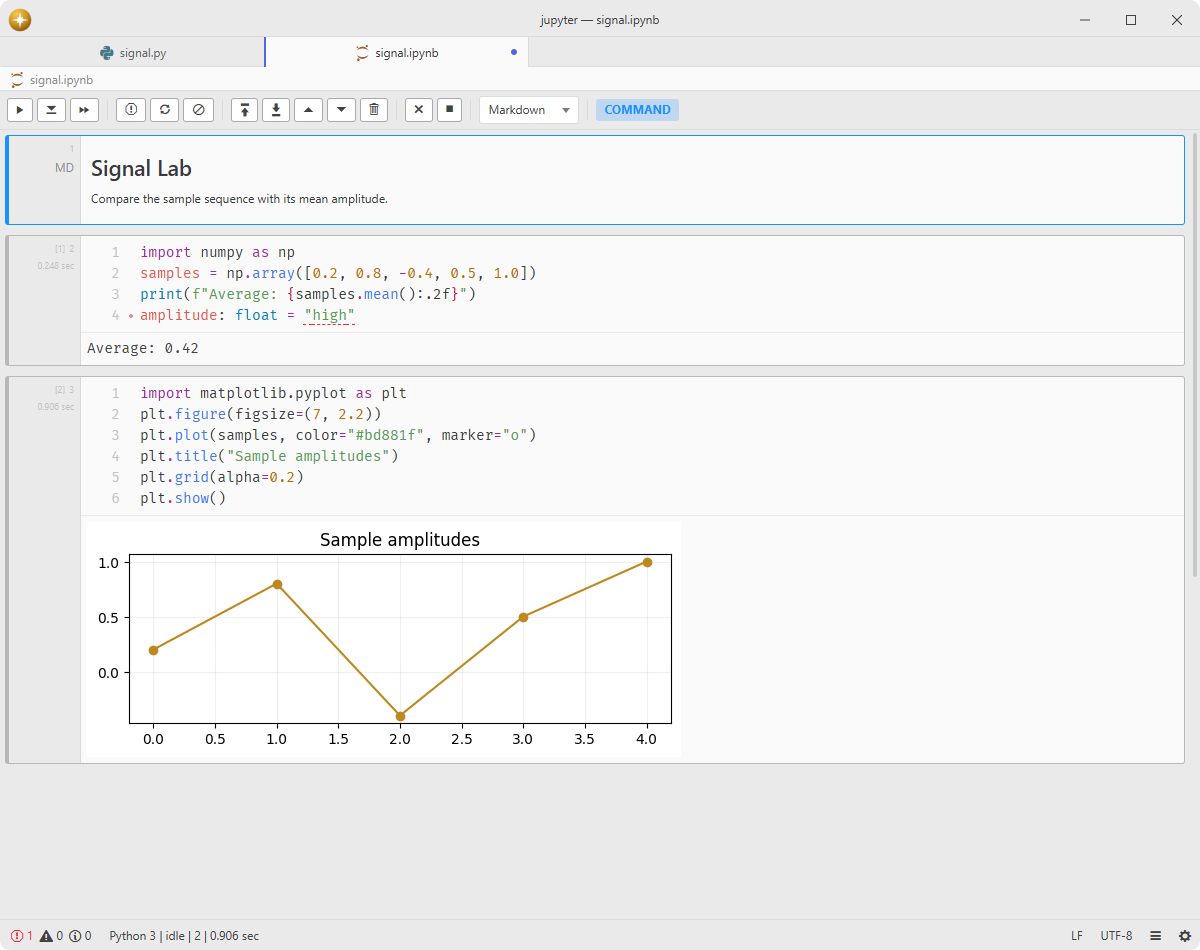
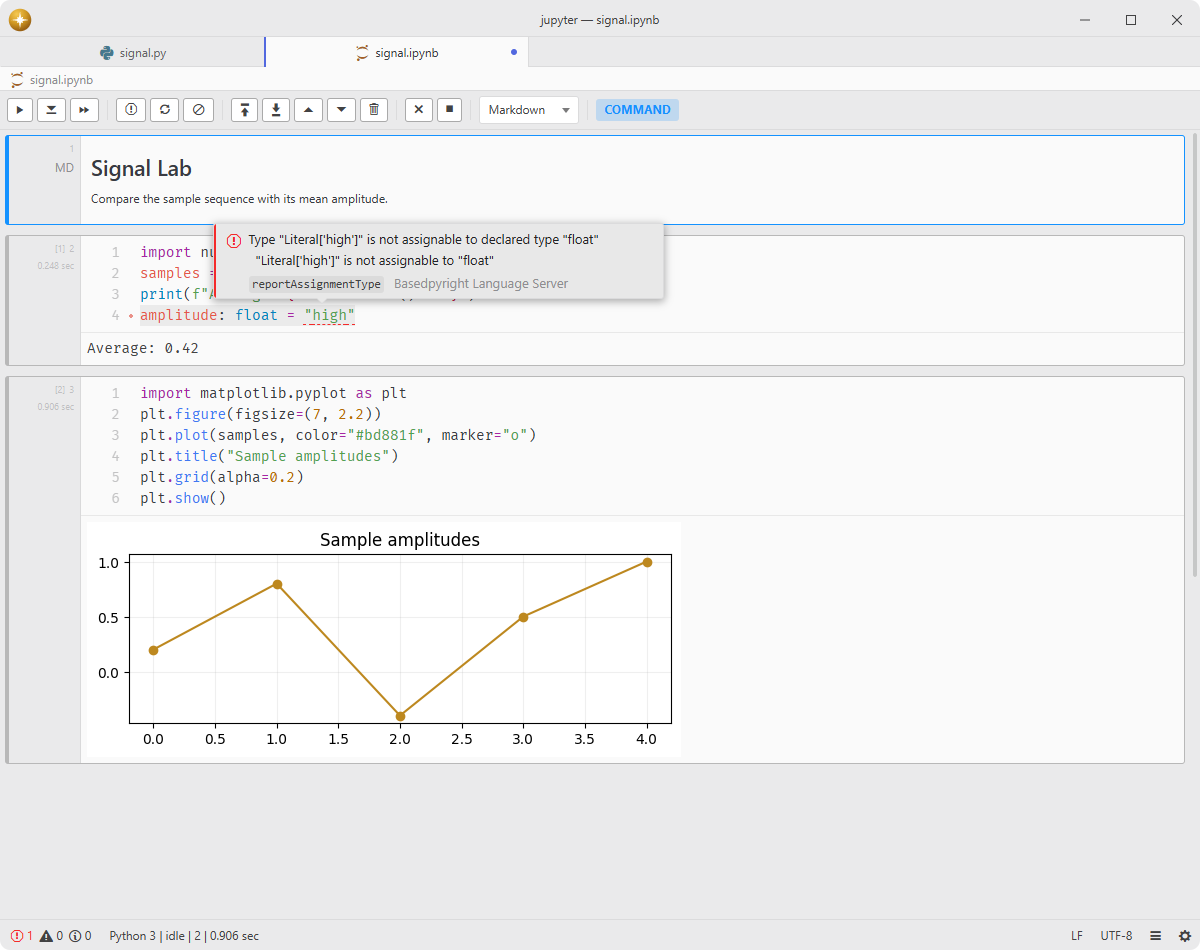
Keep the notebook screenshot that demonstrates diagnostics and hover

Changed region(s): [[0.1542, 0.2137, 0.555, 0.3358]]

diff --git a/README.md b/README.md
@@ -14,9 +14,7 @@ Open and edit Jupyter notebooks.
 - **Source and export**: open notebooks as plain JSON from the notebook or tree view, and export Python scripts or HTML.
 - **MCP automation**: let connected assistants read, create, open, edit and save live notebooks, with bounded output reads, revision guards, retry-safe edits and cancellable change waits.
 
-![Execute a notebook with live Python output and a plotted signal.](.github/demo.png)
-
-![Basedpyright underlines a type error inside a notebook cell and explains it in a hover.](.github/demo-2.png)
+![Basedpyright underlines a type error inside a notebook cell and explains it in a hover.](.github/demo.png)
 
 ## Installation
 
